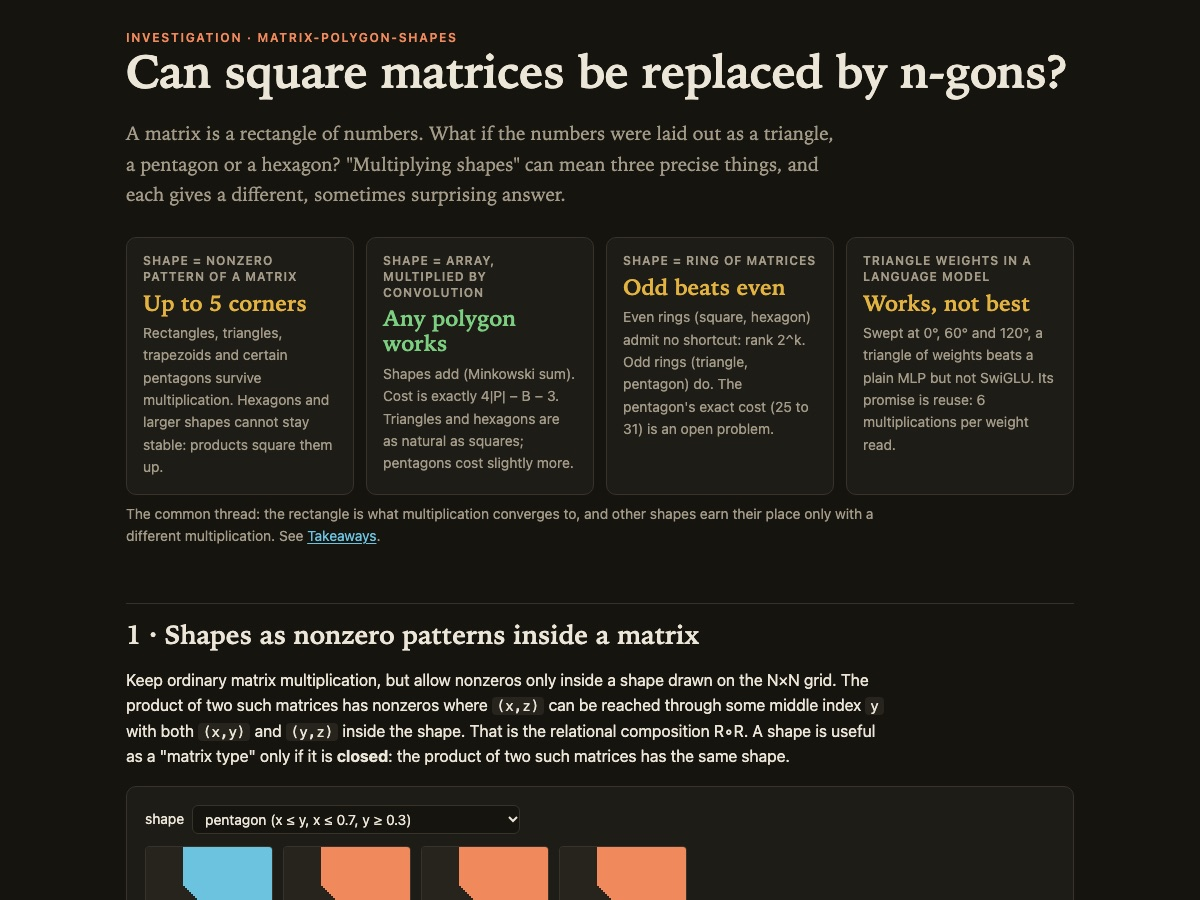
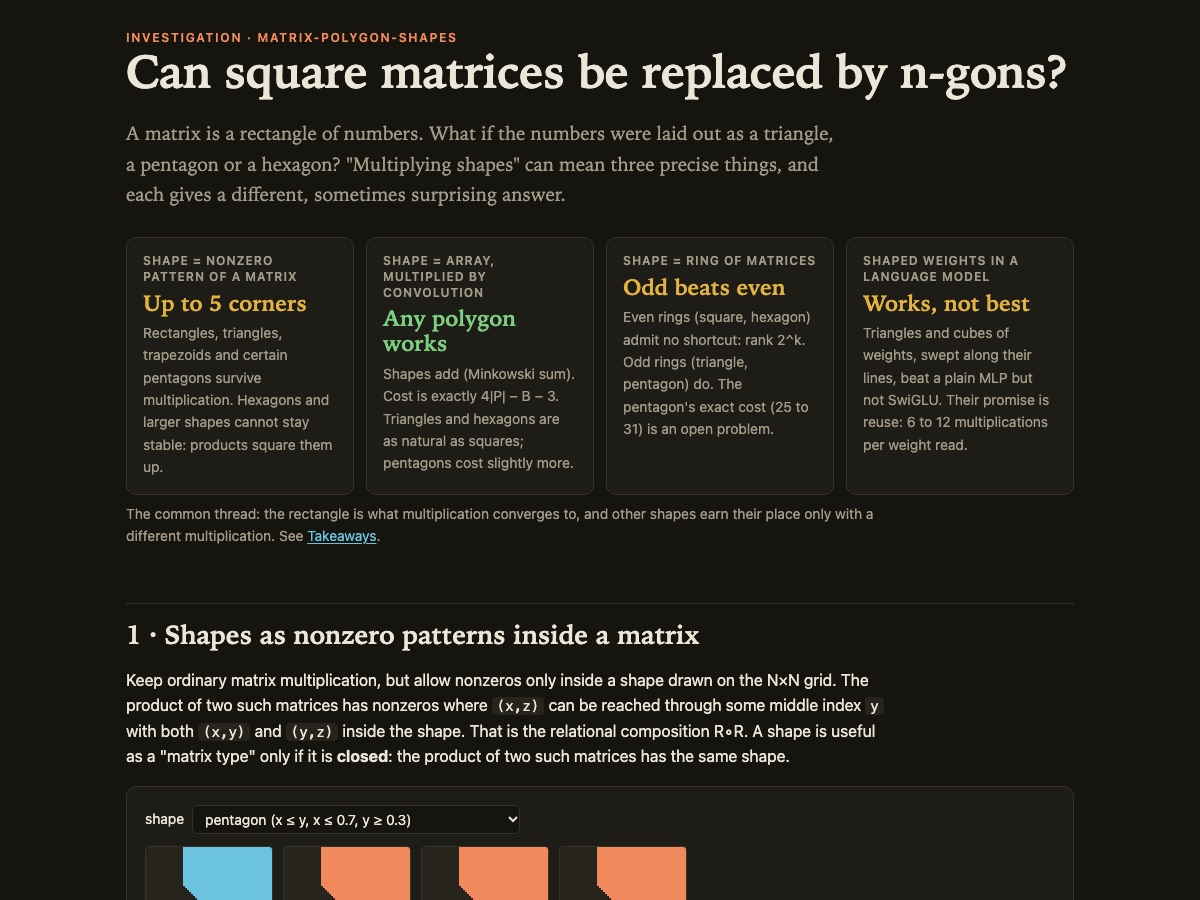
matrix-polygon-shapes: cube and tetrahedron on the page
3D subsection in section 4: sweep table computed by running each shape's sweep code
(multiplications per weight read and energy-gradient check for triangle, cube,
tetrahedron), results at 500 and 1,500 steps, cube added to the bar chart. Card,
takeaways and honesty rows updated. 31 Node tests.

Changed region(s): [[0.7092, 0.3422, 0.8633, 0.4978], [0.7092, 0.28, 0.8633, 0.3111]]

diff --git a/matrix-polygon-shapes/index.html b/matrix-polygon-shapes/index.html
@@ -90,8 +90,8 @@ footer { margin-top: 64px; font-size: 13px; color: var(--muted); border-top: 1px
     <p>Shapes add (Minkowski sum). Cost is exactly 4|P| − B − 3. Triangles and hexagons are as natural as squares; pentagons cost slightly more.</p></div>
   <div class="card"><div class="label">Shape = ring of matrices</div><div class="big meh">Odd beats even</div>
     <p>Even rings (square, hexagon) admit no shortcut: rank 2^k. Odd rings (triangle, pentagon) do. The pentagon's exact cost (25 to 31) is an open problem.</p></div>
-  <div class="card"><div class="label">Triangle weights in a language model</div><div class="big meh">Works, not best</div>
-    <p>Swept at 0°, 60° and 120°, a triangle of weights beats a plain MLP but not SwiGLU. Its promise is reuse: 6 multiplications per weight read.</p></div>
+  <div class="card"><div class="label">Shaped weights in a language model</div><div class="big meh">Works, not best</div>
+    <p>Triangles and cubes of weights, swept along their lines, beat a plain MLP but not SwiGLU. Their promise is reuse: 6 to 12 multiplications per weight read.</p></div>
 </div>
 <p class="cap" style="font-size:14px">The common thread: the rectangle is what multiplication converges to, and other shapes earn their place only with a different multiplication. See <a href="#takeaways">Takeaways</a>.</p>
 
@@ -221,8 +221,8 @@ Sweeping each direction multiplies the two other coordinates' inputs and sums al
 <h3>Does it help a language model?</h3>
 <p>A 2-layer, width-64 character-level transformer was trained on this repository's markdown (2.8 MB, 1,500 steps, CPU). Only the feed-forward block differed, and every variant had about 65.5k feed-forward weights. Lower is better:</p>
 <div class="panel">
-  <svg id="tBars" viewBox="0 0 560 170" width="100%" role="img" aria-label="validation bits per character for four feed-forward blocks"></svg>
-  <div class="cap">Validation bits per character. Two seeds each, except the one-sweep triangle (one seed). Script: <code>llm/triangle_ffn.py</code>.</div>
+  <svg id="tBars" viewBox="0 0 560 206" width="100%" role="img" aria-label="validation bits per character for four feed-forward blocks"></svg>
+  <div class="cap">Validation bits per character after 1,500 steps. Dots are individual seeds (two each, one for the one-sweep triangle). Script: <code>llm/triangle_ffn.py</code>.</div>
 </div>
 <ul>
   <li><b>It works:</b> both triangle layers beat the standard MLP at the same number of weights.</li>
@@ -234,6 +234,31 @@ Sweeping each direction multiplies the two other coordinates' inputs and sums al
     <a href="https://elanapearl.github.io/blog/2024/the-illustrated-alphafold/">AlphaFold's triangle updates</a> refresh each residue pair from the other two edges of every triangle containing it, swept in two directions.
     <a href="https://arxiv.org/abs/2507.02754">2-simplicial attention</a> (Meta, 2025) attends over triangles of tokens and improves token efficiency on maths, code and reasoning.</li>
   <li><b>Caveat:</b> tiny model, short run, CPU. This is a smoke test, not a scaling result.</li>
+</ul>
+<h3>In 3D: a cube and a tetrahedron</h3>
+<p>A <b>cube</b> of weights W[i, j, k] is a full 3-way array. Each weight sits on 3 lines, one per axis, and the triangle above is just its diagonal slice i + j + k = n − 1.
+A <b>tetrahedron</b> (cells with i + j + k + l = n − 1) has 4 face directions. Each sweep collapses a triangular slice and multiplies the other <i>three</i> inputs, giving a 4th-order (quartic) interaction.
+In general a d-dimensional simplex has d + 1 sweeps and d(d + 1) multiplications per weight read.</p>
+<div class="panel tablewrap">
+  <table id="sweepTable"></table>
+  <div class="cap">Counted by running each shape's sweep code (n = 5), which also checks that the sweeps add up to the gradient of the shape's energy.</div>
+</div>
+<p>In the same tiny language model, at the same 65.5k feed-forward weights (cube n = 29, tetrahedron n = 46):</p>
+<div class="panel tablewrap">
+<table>
+  <tr><th>feed-forward</th><th class="num">500 steps (2 seeds)</th><th class="num">1,500 steps</th></tr>
+  <tr><td>MLP</td><td class="num">3.972</td><td class="num">3.389</td></tr>
+  <tr><td>triangle, 3 sweeps</td><td class="num">3.965</td><td class="num">3.374</td></tr>
+  <tr><td>tetrahedron, 4 sweeps</td><td class="num">3.966</td><td class="num">not run (3.6 s per step on CPU)</td></tr>
+  <tr><td>cube, 3 sweeps</td><td class="num">3.963</td><td class="num"><b>3.350</b></td></tr>
+  <tr><td>SwiGLU</td><td class="num">3.971</td><td class="num"><b>3.325</b></td></tr>
+</table>
+<div class="cap">Validation bits per character, lower is better. At 500 steps all five are within seed noise (about ±0.02).</div>
+</div>
+<ul>
+  <li><b>The cube is the best shaped layer:</b> second only to SwiGLU at 1,500 steps, and ahead of its own diagonal slice, the triangle, at the same number of weights.
+    It also runs as plain dense array operations, so it was 8× faster per step than the triangle here.</li>
+  <li><b>The tetrahedron has the most reuse</b> (12 multiplications per weight read) but was too slow on this CPU to train long enough to judge. At 500 steps it ties everything.</li>
 </ul>
 
 <!-- ======================================================================================= -->
@@ -261,7 +286,7 @@ And when the polygon describes how matrices are wired together (a ring), what ma
   <li><b>Storage formats that stay closed:</b> triangles, trapezoids and the triangle-in-a-window pentagon can be multiplied without the result leaving the format. Bands and centred shapes need re-allocation after every product.</li>
   <li><b>Choosing an array shape for convolution data:</b> hexagons for round, isotropic data (images, sensors, game maps; 13.4% fewer samples); triangles for polynomials of bounded total degree. The cost formula 4|P| − B − 3 lets you budget the work exactly.</li>
   <li><b>Tensor networks with loops:</b> an even loop can't be shortcut by any fused algorithm, so the order of pairwise contractions is all that matters. Odd loops leave room for Strassen-like tricks.</li>
-  <li><b>Triangle weights in a language model</b> train fine and beat a plain MLP, but not SwiGLU. Their selling point would be 6 multiplications per weight read for memory-bound inference, which is untested without a GPU kernel.
+  <li><b>Shaped weights in a language model</b> (triangle, cube; the tetrahedron was too slow to judge) train fine and beat a plain MLP, but not SwiGLU. The cube did best. Their selling point would be 6 multiplications per weight read for memory-bound inference, which is untested without a GPU kernel.
     The triangles that already pay off in large models live over tokens (2-simplicial attention) or residue pairs (AlphaFold).</li>
 </ul>
 <h3>How new is this?</h3>
@@ -313,7 +338,8 @@ What this page adds is the side-by-side view, the classification of stable matri
   <tr><td>Pentagon ring of 2×2 matrices needs 31 products</td><td><span class="chip open">open (25–31)</span></td></tr>
   <tr><td>Pentagon ring border rank ≤ 30 (rotation-symmetric fit, error falling as coefficients grow)</td><td><span class="chip numeric">unconfirmed hint</span></td></tr>
   <tr><td>Three sweeps of a triangle of weights equal the gradient of the cubic energy Σ W·h<sub>i</sub>h<sub>j</sub>h<sub>k</sub></td><td><span class="chip proven">proof + tests</span></td></tr>
-  <tr><td>Triangle feed-forward beats an MLP, trails SwiGLU (tiny LM, 1,500 steps)</td><td><span class="chip numeric">measured, small</span></td></tr>
+  <tr><td>Triangle and cube feed-forward beat an MLP, trail SwiGLU (tiny LM, 1,500 steps); tetrahedron undecided</td><td><span class="chip numeric">measured, small</span></td></tr>
+  <tr><td>Cube and tetrahedron sweeps equal the gradients of cubic and quartic energies; 6 and 12 multiplications per weight read</td><td><span class="chip proven">proof + tests</span></td></tr>
 </table></div>
 
 <footer>
@@ -478,8 +504,28 @@ const MP = (() => {
   }
   function cubicEnergy(n, W, h) { return triCells(n).reduce((s, [i, j, k], c) => s + W[c] * h[i] * h[j] * h[k], 0); }
 
+  function tetCells(n) { const c = []; for (let i = 0; i < n; i++) for (let j = 0; j < n - i; j++) for (let k = 0; k < n - i - j; k++) c.push([i, j, k, n - 1 - i - j - k]); return c; }
+  function tetSweeps(n, W, h) {           // 4 sweeps, one per face direction: y_a[m] = Σ_{coordinate a = m} W · (product of the other three h)
+    const cells = tetCells(n), y = [0, 1, 2, 3].map(() => new Array(n).fill(0)); let mults = 0;
+    cells.forEach((c, idx) => { for (let a = 0; a < 4; a++) { let p = W[idx]; for (let b = 0; b < 4; b++) if (b !== a) { p *= h[c[b]]; mults++; } y[a][c[a]] += p; } });
+    return { y, mults, weights: cells.length };
+  }
+  function quarticEnergy(n, W, h) { return tetCells(n).reduce((s, c, idx) => s + W[idx] * h[c[0]] * h[c[1]] * h[c[2]] * h[c[3]], 0); }
+  function cubeSweeps(n, W, h) {          // full 3-way array W[i][j][k], swept along its three axes
+    const y = [0, 1, 2].map(() => new Array(n).fill(0)); let mults = 0;
+    for (let i = 0; i < n; i++) for (let j = 0; j < n; j++) for (let k = 0; k < n; k++) { const w = W[(i * n + j) * n + k];
+      y[0][i] += w * h[j] * h[k]; y[1][j] += w * h[i] * h[k]; y[2][k] += w * h[i] * h[j]; mults += 6; }
+    return { y, mults, weights: n ** 3 };
+  }
+  function cubeEnergy(n, W, h) { let s = 0; for (let i = 0; i < n; i++) for (let j = 0; j < n; j++) for (let k = 0; k < n; k++) s += W[(i * n + j) * n + k] * h[i] * h[j] * h[k]; return s; }
+  function gradCheck(sweepFn, energyFn, n, W, h) {   // max |Σ sweeps − finite-difference gradient of the energy|
+    const { y } = sweepFn(n, W, h), g = h.map((_, m) => y.reduce((s, ya) => s + ya[m], 0));
+    return Math.max(...h.map((_, m) => { const e = 1e-6, hp = h.slice(), hm = h.slice(); hp[m] += e; hm[m] -= e;
+      return Math.abs(g[m] - (energyFn(n, W, hp) - energyFn(n, W, hm)) / (2 * e)); }));
+  }
+
   const mulberryLike = seed => () => { seed |= 0; seed = seed + 0x6D2B79F5 | 0; let t = Math.imul(seed ^ seed >>> 15, 1 | seed); t = t + Math.imul(t ^ t >>> 7, 61 | t) ^ t; return ((t ^ t >>> 14) >>> 0) / 4294967296; };
-  return { mulberryLike, triCells, triSweeps, cubicEnergy, regularPolygon, pattern, boolMul, density, subset, cost, triangle, square, hexagon, latticePolygon, minkowski, hull,
+  return { tetCells, tetSweeps, quarticEnergy, cubeSweeps, cubeEnergy, gradCheck, mulberryLike, triCells, triSweeps, cubicEnergy, regularPolygon, pattern, boolMul, density, subset, cost, triangle, square, hexagon, latticePolygon, minkowski, hull,
            boundaryCount, latticePointsOf, shapeArray, ringEntries, strassenTriangle, surgery, verifyRing, flatteningRank, set, key };
 })();
 
@@ -529,6 +575,13 @@ const MPTests = {
       const fd = h.map((_, m) => { const e = 1e-6, hp = h.slice(), hm = h.slice(); hp[m] += e; hm[m] -= e; return (MP.cubicEnergy(n, W, hp) - MP.cubicEnergy(n, W, hm)) / (2 * e); });
       t("sweeps sum to the gradient of the cubic energy", g.every((v, m) => Math.abs(v - fd[m]) < 1e-6));
       t("each triangle weight feeds 6 multiplications", mults === 6 * weights && weights === n * (n + 1) / 2); }
+
+    { const rnd = MP.mulberryLike(9), n = 5, h = Array.from({ length: n }, () => rnd() * 2 - 1);
+      const Wt = MP.tetCells(n).map(() => rnd() * 2 - 1), Wc = Array.from({ length: n ** 3 }, () => rnd() * 2 - 1);
+      t("tetrahedron: 4 sweeps = gradient of the quartic energy", MP.gradCheck(MP.tetSweeps, MP.quarticEnergy, n, Wt, h) < 1e-6);
+      t("tetrahedron: 12 multiplications per weight, n(n+1)(n+2)/6 weights", (r => r.mults === 12 * r.weights && r.weights === n * (n + 1) * (n + 2) / 6)(MP.tetSweeps(n, Wt, h)));
+      t("cube: 3 sweeps = gradient of the cubic energy", MP.gradCheck(MP.cubeSweeps, MP.cubeEnergy, n, Wc, h) < 1e-6);
+      t("cube: 6 multiplications per weight", (r => r.mults === 6 * r.weights)(MP.cubeSweeps(n, Wc, h))); }
     const failed = res.filter(x => !x[1]);
     if (typeof console !== "undefined") console.log(`MPTests: ${res.length - failed.length}/${res.length} passed` + (failed.length ? "\nFAILED: " + failed.map(x => x[0]).join(", ") : ""));
     return failed.length === 0;
@@ -618,16 +671,38 @@ function triDemo() {
     y₀ + y₁ + y₂ vs finite-difference ∇E: max difference ${err.toExponential(1)} ${err < 1e-5 ? '<span class="ok">✓</span>' : '<span class="fail">✗</span>'}`;
 }
 function triBars() {
-  const rows = [["MLP (GELU)", 3.389, [3.394, 3.383]], ["triangle, 3 sweeps", 3.374, [3.374, 3.373]], ["triangle, 1 sweep", 3.344, [3.344]], ["SwiGLU", 3.325, [3.323, 3.327]]];
+  const rows = [["MLP (GELU)", 3.389, [3.394, 3.383]], ["triangle, 3 sweeps", 3.374, [3.374, 3.373]], ["cube, 3 sweeps", 3.350, [3.348, 3.353]], ["triangle, 1 sweep", 3.344, [3.344]], ["SwiGLU", 3.325, [3.323, 3.327]]];
   const L = 150, R = 60, W = 560, lo = 3.30, hi = 3.40, X = v => L + (v - lo) / (hi - lo) * (W - L - R);
   let g = "";
   rows.forEach(([name, v, seeds], i) => { const y = 14 + i * 36;
     g += `<text x="${L - 8}" y="${y + 15}" text-anchor="end">${name}</text>`;
-    g += `<rect x="${L}" y="${y}" width="${X(v) - L}" height="22" rx="3" fill="${name.startsWith("triangle") ? css("--accent") : css("--muted")}" opacity="${name.startsWith("triangle") ? 1 : 0.55}"/>`;
+    const shaped = name.startsWith("triangle") || name.startsWith("cube");
+    g += `<rect x="${L}" y="${y}" width="${X(v) - L}" height="22" rx="3" fill="${shaped ? css("--accent") : css("--muted")}" opacity="${shaped ? 1 : 0.55}"/>`;
     seeds.forEach(sv => g += `<circle cx="${X(sv)}" cy="${y + 11}" r="3" fill="${css("--ink")}"/>`);
     g += `<text x="${X(Math.max(v, ...seeds)) + 10}" y="${y + 15}">${v.toFixed(3)}</text>`; });
-  for (const v of [3.30, 3.35, 3.40]) g += `<text x="${X(v)}" y="166" text-anchor="middle">${v.toFixed(2)}</text>`;
+  for (const v of [3.30, 3.35, 3.40]) g += `<text x="${X(v)}" y="202" text-anchor="middle">${v.toFixed(2)}</text>`;
   $("tBars").innerHTML = g;
+}
+
+function sweepTable() {
+  const rnd = MP.mulberryLike(3), n = 5, h = Array.from({ length: n }, () => rnd() * 2 - 1);
+  const rows = [
+    ["square (matrix–vector)", "1", "1", "1", "n²", "—"],
+    ["triangle", "3", "2", null, "n(n+1)/2", ["tri"]],
+    ["cube", "3", "2", null, "n³", ["cube"]],
+    ["tetrahedron", "4", "3", null, "n(n+1)(n+2)/6", ["tet"]],
+    ["d-simplex", "d + 1", "d", "d(d + 1)", "≈ n^d / d!", "—"],
+  ];
+  const run = kind => {
+    if (kind === "tri") { const W = MP.triCells(n).map(() => rnd()); const r = MP.triSweeps(n, W, h); return [r.mults / r.weights, MP.gradCheck(MP.triSweeps, MP.cubicEnergy, n, W, h)]; }
+    if (kind === "cube") { const W = Array.from({ length: n ** 3 }, () => rnd()); const r = MP.cubeSweeps(n, W, h); return [r.mults / r.weights, MP.gradCheck(MP.cubeSweeps, MP.cubeEnergy, n, W, h)]; }
+    const W = MP.tetCells(n).map(() => rnd()); const r = MP.tetSweeps(n, W, h); return [r.mults / r.weights, MP.gradCheck(MP.tetSweeps, MP.quarticEnergy, n, W, h)];
+  };
+  $("sweepTable").innerHTML = `<tr><th>shape</th><th class="num">sweep directions</th><th class="num">inputs multiplied per sweep</th><th class="num">multiplications per weight read</th><th class="num">weights</th><th>sweeps = energy gradient?</th></tr>` +
+    rows.map(([name, dirs, per, mult, weights, test]) => {
+      let m = mult, chk = test;
+      if (Array.isArray(test)) { const [mm, err] = run(test[0]); m = String(mm); chk = err < 1e-6 ? '<span class="ok">✓</span>' : '<span class="fail">✗</span>'; }
+      return `<tr><td>${name}</td><td class="num">${dirs}</td><td class="num">${per}</td><td class="num"><b>${m}</b></td><td class="num">${weights}</td><td>${chk}</td></tr>`; }).join("");
 }
 
 function ringDiagram() {
@@ -656,7 +731,7 @@ $("cShape").oninput = convDemo; $("cSize").oninput = convDemo; $("ringBuild").on
 $("tNew").onclick = () => { triState.seed++; triDemo(); };
 document.querySelectorAll(".pc").forEach(tb => { const heads = [...tb.rows[0].cells].map(c => c.textContent);
   [...tb.rows].slice(1).forEach(r => [...r.cells].forEach((c, i) => c.dataset.label = heads[i])); });
-patternDemo(); convDemo(); convTable(); ringDiagram(); triDemo(); triBars();
+patternDemo(); convDemo(); convTable(); ringDiagram(); triDemo(); triBars(); sweepTable();
 matchMedia("(prefers-color-scheme: dark)").addEventListener("change", () => { patternDemo(); convDemo(); ringDiagram(); triDemo(); triBars(); });
 </script>
 </body>
